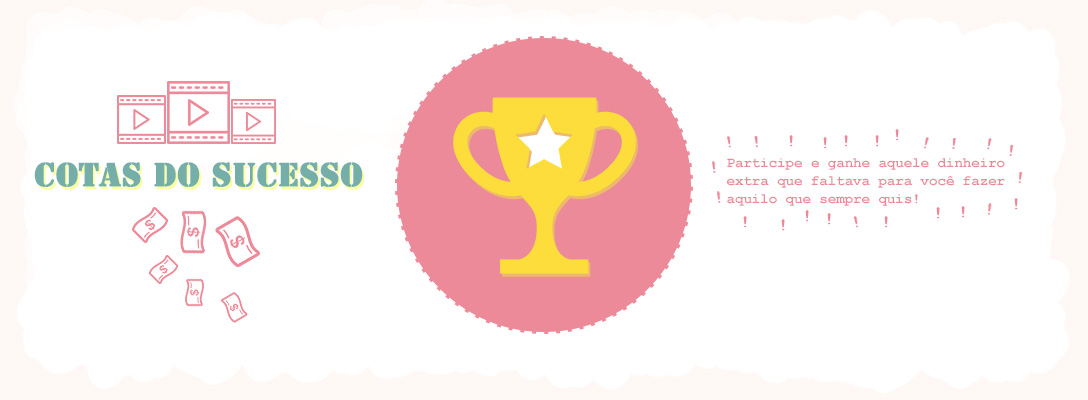
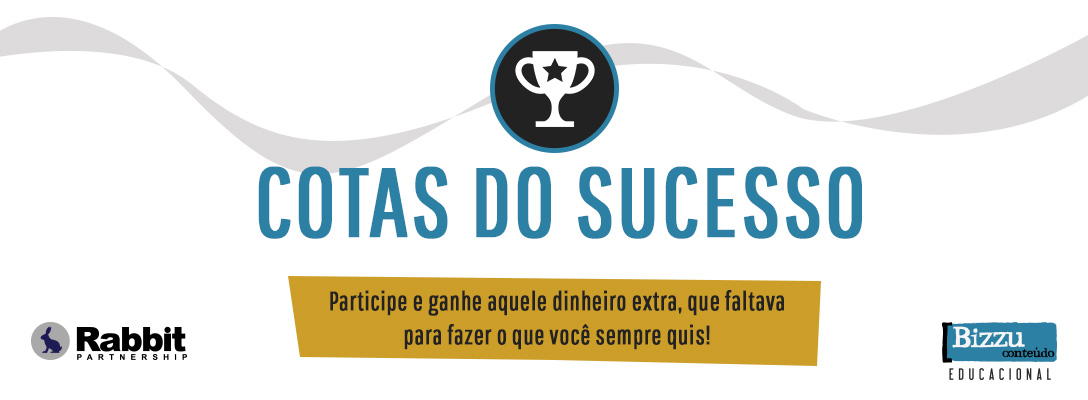
finished new visual id

diff --git a/app/assets/stylesheets/refills/_navigation.scss b/app/assets/stylesheets/refills/_navigation.scss
@@ -1,10 +1,10 @@
 header.navigation {
   $navigation-padding: 1em;
-  $navigation-background: #FEF9F5;
-  $navigation-color: #FFC1DA;
-  $navigation-color-hover: darken(#FFC1DA, 40);
+  $navigation-background: #222;
+  $navigation-color: #fff;
+  $navigation-color-hover: darken(#fff, 40);
   $navigation-height: 60px;
-  $navigation-nav-button-background: #FD7E93;
+  $navigation-nav-button-background: #222;
   $navigation-nav-button-background-hover: lighten($navigation-background, 10);
   $navigation-nav-button-border: 1px solid lighten($navigation-nav-button-background, 20);
   $navigation-search-background: lighten($navigation-background, 5);
@@ -14,8 +14,9 @@ header.navigation {
   $horizontal-bar-mode: $large-screen;
 
   background-color: $navigation-background;
-  border-bottom: 2px dashed #FEF7A7;
-  font-family: "Courier New", Courier, monospace;
+  border-bottom: 5px solid #EEEEEE;
+
+  font-family: $helvetica;
   height: $navigation-height;
   width: 100%;
   z-index: 999;
@@ -25,7 +26,8 @@ header.navigation {
     display: block;
     background: asset_url('header.jpg') no-repeat top left;
     height: 400px;
-    border-bottom: 2px dashed #FEF7A7;
+    border-bottom: 5px solid #dedede;
+
   }
 
   .menu-wrapper {
@@ -33,6 +35,7 @@ header.navigation {
     @include clearfix;
     position: relative;
     z-index: 9999;
+    padding-right: 20px;
   }
 
   .logo {
@@ -215,12 +218,12 @@ header.navigation {
     display: inline;
     background: #fefefe;
     border-radius: $base-border-radius; 
-    color: #FD7E93;
+    color: #CD9E2A;
     font-size: .8em;  
     font-weight: 800;
     padding: .4em 1em;
     text-transform: uppercase;
-    border: 2px dashed #FD7E93;
+    // border: 2px dashed #fff;
 
     &:hover {
       background: lighten($navigation-nav-button-background, 10);
@@ -228,12 +231,12 @@ header.navigation {
   }
   a.sign-in{
     @extend a.sign-up;
-    background: #fefefe;
+    background: #257FA4;
     margin-left: 20px;
-    color: #A1D4CF;
-    border: 2px dashed #A1D4CF;
+    color: #fff;
+    // border: 2px dashed #A1D4CF;
     &:hover{
-      background: #FEF7A7;
+      // background: #FEF7A7;
     }
   }
 

diff --git a/app/assets/stylesheets/bizzu.css.scss b/app/assets/stylesheets/bizzu.css.scss
@@ -1,7 +1,7 @@
 
 body {
-	background: #FEF9F5;
-	font-family: "Courier New", Courier, monospace;
+	background: #DEDEDE;
+	font-family: $base-font-family;
 }
 
 header{
@@ -9,11 +9,17 @@ header{
 }
 main {
 	@include outer-container;
+	border: 1px solid silver;
+	margin: 30px auto;
+	box-shadow: 0px 0px 5px 5px rgba(200,200,200,0.5);
 
 }
 section {
 	@include span-columns(12);
-	padding-top: 70px;
+	padding: 40px;
+	background-color: #f1f1f1;
+
+
 }
 
 form {
@@ -33,7 +39,7 @@ footer{
 	background-color: white;
 	margin-top: 40px;
 	padding: 10px;
-	border-radius: 15px;
+	// border-radius: 15px;
 	.vendas{
 		float: left;
 		display: block;
@@ -50,6 +56,7 @@ footer{
 			text-align: center;
 			color: white;
 			font-weight: bold;
+			color: #222;
 		}
 	}
 	.foto{
@@ -59,7 +66,7 @@ footer{
 		border-radius: 50%;
 		padding: 5px;
 		background: white;
-		border: 2px dashed #FEF7A7;
+		border: 2px solid #297597;
 	}
 	h3{
 		font-weight: normal;
@@ -70,11 +77,28 @@ footer{
 
 #home{
 	h2{
-		color:#A1D4CF;
+		color:#555;
+	}
+	h1{
+		margin-bottom: 30px;
 	}
 	#generalbar{
 		@include span-columns(12);
+		@include linear-gradient(#fbfbfb, #fff);
+		border-radius: 90px;
 		margin-bottom: 40px;
+		padding: 10px;
+		border: 1px solid #D6D6D6;
+
+		.progress-bar-indication{
+			@include span-columns(10);
+			margin-top: 57px;
+		}
+		figure{
+			@include span-columns(2);	
+			padding:0;
+			margin: 0;
+		}
 
 	}
 	#ranking{
@@ -88,8 +112,9 @@ footer{
 			margin-bottom: 30px;
 		}
 		div{
-			background-color:#FEE5E9;
-			border-radius: 15px;
+			background-color:#dedede;
+			// border-radius: 15px;
+			color: #555;
 			padding: 15px;
 		}
 	}
@@ -98,17 +123,17 @@ footer{
 	margin: 13px 0 15px 0;
 	@include transition (all 0.2s ease-in-out);
 	display: inline-block;
-	background: #fefefe;
+	background: #CD9E2A;
 	border-radius: $base-border-radius; 
-	color: #FD7E93;
+	color: #FFF;
 	font-size: .8em;  
 	font-weight: 800;
 	padding: .8em 1em;
 	text-transform: uppercase;
-	border: 2px dashed #FD7E93;
+	// border: 2px dashed #FD7E93;
 	&:hover {
-	  background: #FEF7A7;
-	  color: #FD7E93; 
+	  background: #ECBA30;
+	  color: #fff; 
 	}
 }
 

diff --git a/app/assets/stylesheets/refills/_progressbar.scss b/app/assets/stylesheets/refills/_progressbar.scss
@@ -1,14 +1,14 @@
 .progress-bar-indication {
-  $progress-border-color: $base-border-color;
+  $progress-border-color: #666;
   $progress-border: 1px solid $progress-border-color;
-  $progress-meter-border-color: $base-accent-color;
+  $progress-meter-border-color: #D2AA21;
   $progress-meter-border: 1px solid darken($progress-meter-border-color, 15%);
   $progress-meter-color: $progress-meter-border-color;
-  $progress-background: darken($base-background-color, 5);
+  $progress-background: darken($base-background-color, 30);
   $progress-animation-duration: 0.7s;
   $progress-color: white;
 
-  background-color: $progress-background;
+  @include linear-gradient(#222, #666);
   border: $progress-border;
   box-shadow: inset 0 0 3px 0 rgba(darken($progress-background, 50%), 0.15);
   border-radius: $base-border-radius;
@@ -17,11 +17,11 @@
 
   > span.meter {
     @include box-sizing(border-box);
-    background-color: $progress-meter-color;
+    @include linear-gradient(#FFD14E, #F99B00);
     background-size: 40px 40px;
     background-repeat: repeat-x;
     border: $progress-meter-border;
-    border-radius: $base-border-radius /1.5;
+    border-radius: $base-border-radius;
     border-top-right-radius: 0;
     border-bottom-right-radius: 0;
     display: block;

diff --git a/app/assets/stylesheets/base/_variables.scss b/app/assets/stylesheets/base/_variables.scss
@@ -1,7 +1,7 @@
 // Typography
 $sans-serif: $helvetica;
-$serif: "Courier New", Courier, monospace;;
-$base-font-family: $serif;
+$serif: $georgia;
+$base-font-family: $sans-serif;
 $header-font-family: $base-font-family;
 
 // Font Sizes
@@ -18,7 +18,7 @@ $base-line-height: 1.5;
 $header-line-height: 1.25;
 
 // Other Sizes
-$base-border-radius: 3px;
+$base-border-radius: 15px;
 $base-spacing: $base-line-height * 1em;
 $base-z-index: 0;
 
@@ -41,8 +41,8 @@ $base-accent-color: $blue;
 // Link Colors
 $base-link-color: $base-accent-color;
 $hover-link-color: darken($base-accent-color, 15);
-$base-button-color: $base-link-color;
-$hover-button-color: $hover-link-color;
+$base-button-color: #ECBA30;
+$hover-button-color: #CBA329;
 
 // Flash Colors
 $alert-color: $light-yellow;
